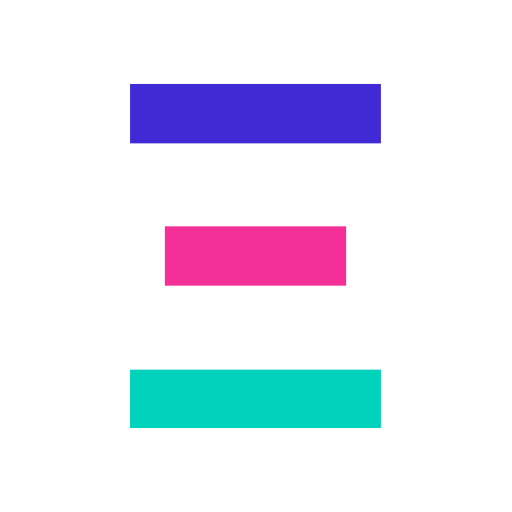
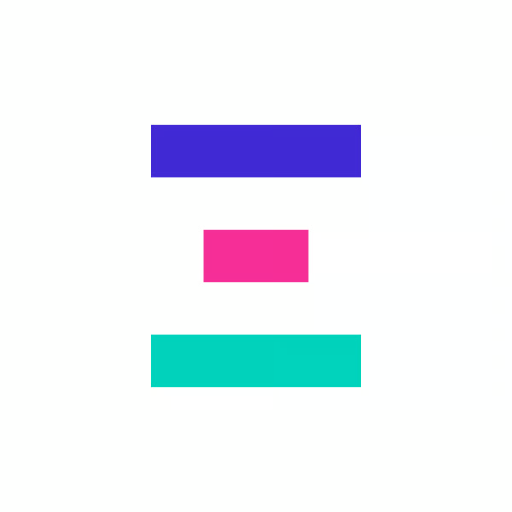
feat: update branding assets and improve mini-app navbar
- Update all favicon and app icons with new branding
- Add Streme text logos in black and white variants
- Enhance MiniAppTopNavbar with better styling and full-width logo
- Improve responsive design for mobile interfaces

🤖 Generated with [Claude Code](https://claude.ai/code)

Changed region(s): [[0.25, 0.625, 0.75, 0.8438], [0.25, 0.1562, 0.75, 0.375], [0.3125, 0.4375, 0.6875, 0.5625]]

diff --git a/src/components/MiniAppTopNavbar.tsx b/src/components/MiniAppTopNavbar.tsx
@@ -1,9 +1,10 @@
 "use client";
 
 import Link from "next/link";
+import Image from "next/image";
 import { StreamingBalance } from "./StreamingBalance";
 import { usePostHog } from "posthog-js/react";
-import { memo, useCallback } from "react";
+import { memo, useCallback, useEffect, useState } from "react";
 
 interface MiniAppTopNavbarProps {
   isConnected: boolean;
@@ -17,6 +18,48 @@ function MiniAppTopNavbarComponent({
   onTutorialClick,
 }: MiniAppTopNavbarProps) {
   const postHog = usePostHog();
+  const [isDark, setIsDark] = useState(false);
+
+  useEffect(() => {
+    const checkDarkMode = () => {
+      const htmlElement = document.documentElement;
+      const dataTheme = htmlElement.getAttribute("data-theme");
+      const hasClassDark = htmlElement.classList.contains("dark");
+      const isDarkMode = dataTheme === "dark" || hasClassDark;
+
+      setIsDark((prevIsDark) =>
+        prevIsDark !== isDarkMode ? isDarkMode : prevIsDark
+      );
+    };
+
+    checkDarkMode();
+
+    const observer = new MutationObserver((mutations) => {
+      const relevantChange = mutations.some(
+        (mutation) =>
+          mutation.type === "attributes" &&
+          (mutation.attributeName === "data-theme" ||
+            mutation.attributeName === "class")
+      );
+
+      if (relevantChange) {
+        checkDarkMode();
+      }
+    });
+
+    observer.observe(document.documentElement, {
+      attributes: true,
+      attributeFilter: ["class", "data-theme"],
+    });
+
+    const mediaQuery = window.matchMedia("(prefers-color-scheme: dark)");
+    mediaQuery.addEventListener("change", checkDarkMode);
+
+    return () => {
+      observer.disconnect();
+      mediaQuery.removeEventListener("change", checkDarkMode);
+    };
+  }, []);
 
   // Memoize the tutorial button click handler to prevent unnecessary re-renders
   const handleTutorialClick = useCallback(() => {
@@ -28,27 +71,30 @@ function MiniAppTopNavbarComponent({
   }, [onTutorialClick, postHog]);
 
   return (
-    <div className="fixed top-0 left-0 right-0 flex items-center justify-between p-4 z-10 bg-base-100/80 backdrop-blur-sm">
+    <div className="fixed top-0 left-0 right-0 flex items-center justify-between py-4 px-8 z-10 bg-base-100/80 backdrop-blur-sm">
       <div className="flex-shrink-0">
         <Link href="/" className="flex items-center">
-          <svg
-            width="100"
-            height="17"
-            viewBox="0 0 391 72"
-            fill="none"
-            xmlns="http://www.w3.org/2000/svg"
-            onClick={onLogoClick}
-            className={onLogoClick ? "cursor-pointer" : ""}
-          >
-            <path
-              d="M40.1619 21.2614C39.8892 18.5114 38.7188 16.375 36.6506 14.8523C34.5824 13.3295 31.7756 12.5682 28.2301 12.5682C25.821 12.5682 23.7869 12.9091 22.1278 13.5909C20.4688 14.25 19.196 15.1705 18.3097 16.3523C17.446 17.5341 17.0142 18.875 17.0142 20.375C16.9688 21.625 17.2301 22.7159 17.7983 23.6477C18.3892 24.5795 19.196 25.3864 20.2188 26.0682C21.2415 26.7273 22.4233 27.3068 23.7642 27.8068C25.1051 28.2841 26.5369 28.6932 28.0597 29.0341L34.3324 30.5341C37.3778 31.2159 40.1733 32.125 42.7188 33.2614C45.2642 34.3977 47.4688 35.7955 49.3324 37.4545C51.196 39.1136 52.6392 41.0682 53.6619 43.3182C54.7074 45.5682 55.2415 48.1477 55.2642 51.0568C55.2415 55.3295 54.1506 59.0341 51.9915 62.1705C49.8551 65.2841 46.7642 67.7045 42.7188 69.4318C38.696 71.1364 33.8438 71.9886 28.1619 71.9886C22.5256 71.9886 17.6165 71.125 13.4347 69.3977C9.27557 67.6705 6.02557 65.1136 3.68466 61.7273C1.36648 58.3182 0.150568 54.1023 0.0369318 49.0795H14.321C14.4801 51.4205 15.1506 53.375 16.3324 54.9432C17.5369 56.4886 19.1392 57.6591 21.1392 58.4545C23.1619 59.2273 25.446 59.6136 27.9915 59.6136C30.4915 59.6136 32.6619 59.25 34.5028 58.5227C36.3665 57.7955 37.8097 56.7841 38.8324 55.4886C39.8551 54.1932 40.3665 52.7045 40.3665 51.0227C40.3665 49.4545 39.9006 48.1364 38.9688 47.0682C38.0597 46 36.7188 45.0909 34.946 44.3409C33.196 43.5909 31.0483 42.9091 28.5028 42.2955L20.9006 40.3864C15.0142 38.9545 10.3665 36.7159 6.95739 33.6705C3.5483 30.625 1.85511 26.5227 1.87784 21.3636C1.85511 17.1364 2.98011 13.4432 5.25284 10.2841C7.5483 7.125 10.696 4.65909 14.696 2.88636C18.696 1.11363 23.2415 0.22727 28.3324 0.22727C33.5142 0.22727 38.0369 1.11363 41.9006 2.88636C45.7869 4.65909 48.8097 7.125 50.9688 10.2841C53.1278 13.4432 54.2415 17.1023 54.3097 21.2614H40.1619ZM62.5341 13.3523V1.18182H119.875V13.3523H98.5V71H83.9091V13.3523H62.5341ZM129.318 71V1.18182H156.864C162.136 1.18182 166.636 2.125 170.364 4.01136C174.114 5.875 176.966 8.52273 178.92 11.9545C180.898 15.3636 181.886 19.375 181.886 23.9886C181.886 28.625 180.886 32.6136 178.886 35.9545C176.886 39.2727 173.989 41.8182 170.193 43.5909C166.42 45.3636 161.852 46.25 156.489 46.25H138.045V34.3864H154.102C156.92 34.3864 159.261 34 161.125 33.2273C162.989 32.4545 164.375 31.2955 165.284 29.75C166.216 28.2045 166.682 26.2841 166.682 23.9886C166.682 21.6705 166.216 19.7159 165.284 18.125C164.375 16.5341 162.977 15.3295 161.091 14.5114C159.227 13.6705 156.875 13.25 154.034 13.25H144.08V71H129.318ZM167.023 39.2273L184.375 71H168.08L151.102 39.2273H167.023ZM255.224 1.18182H273.429L292.656 48.0909H293.474L312.702 1.18182H330.906V71H316.588V25.5568H316.009L297.94 70.6591H288.19L270.122 25.3864H269.543V71H255.224V1.18182ZM343.068 71V1.18182H390.114V13.3523H357.83V29.9886H387.693V42.1591H357.83V58.8295H390.25V71H343.068Z"
-              className="fill-primary"
+          {isDark ? (
+            <Image
+              src="/streme-text-white.svg"
+              width={80}
+              height={13}
+              alt="Streme"
+              onClick={onLogoClick}
+              className={onLogoClick ? "cursor-pointer" : ""}
+              priority
             />
-            <path
-              d="M193.818 71V59.1705H241.545V71H193.818ZM199.648 41.4432V30.0227H235.955V41.4432H199.648ZM195.114 13.1818V1.18182H239.364V13.1818H195.114Z"
-              className="fill-secondary"
+          ) : (
+            <Image
+              src="/streme-text-black.svg"
+              width={80}
+              height={13}
+              alt="Streme"
+              onClick={onLogoClick}
+              className={onLogoClick ? "cursor-pointer" : ""}
+              priority
             />
-          </svg>
+          )}
         </Link>
       </div>
       <div className="flex items-center gap-2">
